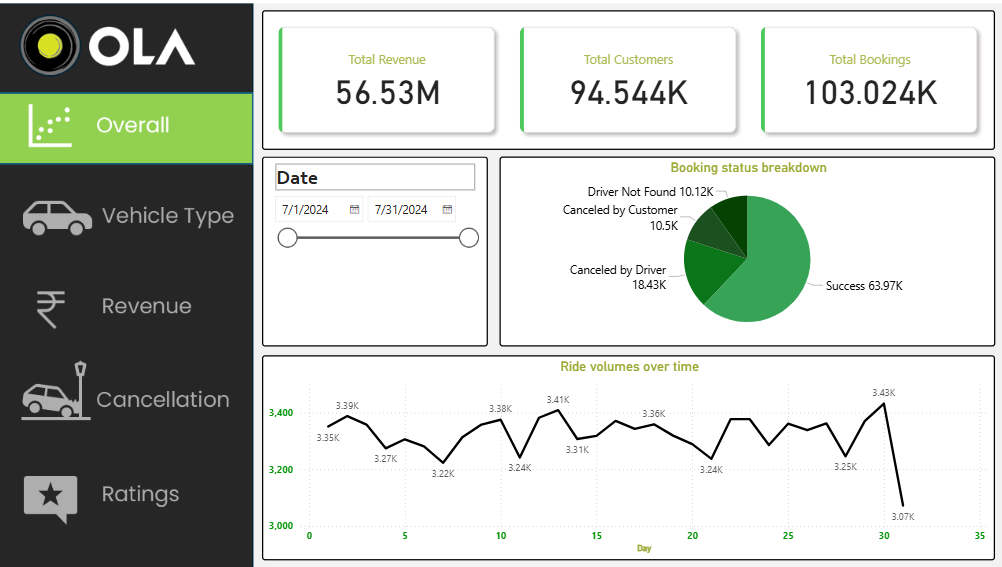
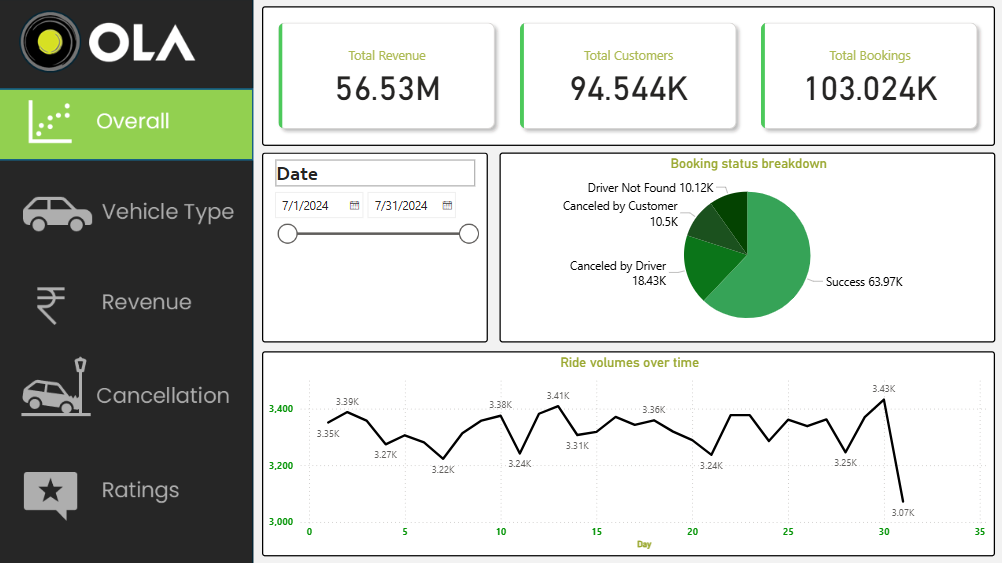
Added New project

diff --git a/index.html b/index.html
@@ -234,75 +234,6 @@
 
         <div class="purple-line"></div>
 
-        <h2 class="project-name">pizza sales analysis</h2>
-
-        <p class="tech-stack"><b>Tech Stack:</b> SQL, Power BI</p>
-
-        <ul>
-          <li>
-            Analyzed pizza sales data to identify revenue trends, sales
-            performance, and customer ordering patterns.
-          </li>
-
-          <li>
-            Used SQL to perform business-focused analysis on sales, product
-            categories, and revenue metrics.
-          </li>
-
-          <li>
-            Explored key performance indicators such as total revenue, order
-            volume, top-selling pizzas, and category-wise sales.
-          </li>
-
-          <li>
-            Developed an interactive Power BI dashboard to visualize sales
-            trends and business performance.
-          </li>
-
-          <li>
-            Generated insights to support data-driven decision-making through
-            analytical reporting and visualization.
-          </li>
-        </ul>
-
-        <br />
-
-        <p>
-          <b>Github:</b>
-          <a
-            href="https://github.com/SayaliNimbalkarr/pizza-sales-analysis"
-            target="_blank"
-          >
-            View Project
-          </a>
-        </p>
-      </div>
-    </section>
-
-    <!-- DASHBOARD -->
-
-    <section class="page-section">
-      <div class="card project-card">
-        <h1 class="section-title">DASHBOARD</h1>
-
-        <div class="purple-line"></div>
-
-        <img
-          src="images/D3.png"
-          alt="Customer Shopping Dashboard"
-          class="dashboard-img"
-        />
-      </div>
-    </section>
-
-    <!-- PROJECT 4 -->
-
-    <section class="page-section">
-      <div class="card project-card">
-        <h1 class="section-title">PROJECT 4</h1>
-
-        <div class="purple-line"></div>
-
         <h2 class="project-name">swiggy data analysis</h2>
 
         <p class="tech-stack">
@@ -362,6 +293,73 @@
 
         <img
           src="images/D4.png"
+          alt="Customer Shopping Dashboard"
+          class="dashboard-img"
+        />
+      </div>
+    </section>
+
+    <!-- PROJECT 4 -->
+
+    <section class="page-section">
+      <div class="card project-card">
+        <h1 class="section-title">PROJECT 4</h1>
+
+        <div class="purple-line"></div>
+
+        <h2 class="project-name">coffee shop sales</h2>
+
+        <p class="tech-stack"><b>Tech Stack:</b> Power BI, DAX, Power Query</p>
+
+        <ul>
+          <li>
+            Analyzed over 100,000 coffee shop sales records to identify revenue
+            trends, customer purchasing behavior, and product performance.
+          </li>
+
+          <li>
+            Developed DAX measures and calculated columns to create KPIs,
+            perform business analysis, and summarize sales across different
+            product categories, store locations, and time periods.
+          </li>
+
+          <li>
+            Built an interactive Power BI dashboard featuring Total Sales, Peak
+            Sales Hours, Monthly Sales Trends, Product Category Analysis, and
+            dynamic slicers for business reporting.
+          </li>
+
+          <li>
+            Generated actionable insights into sales performance, customer
+            purchasing patterns, and peak business hours through interactive
+            data visualization.
+          </li>
+        </ul>
+
+        <br />
+
+        <p>
+          <b>Github:</b>
+          <a
+            href="https://github.com/SayaliNimbalkarr/Coffee-Shop-Sales-Analysis"
+            target="_blank"
+          >
+            View Project
+          </a>
+        </p>
+      </div>
+    </section>
+
+    <!-- DASHBOARD -->
+
+    <section class="page-section">
+      <div class="card project-card">
+        <h1 class="section-title">DASHBOARD</h1>
+
+        <div class="purple-line"></div>
+
+        <img
+          src="images/D7.png"
           alt="Customer Shopping Dashboard"
           class="dashboard-img"
         />